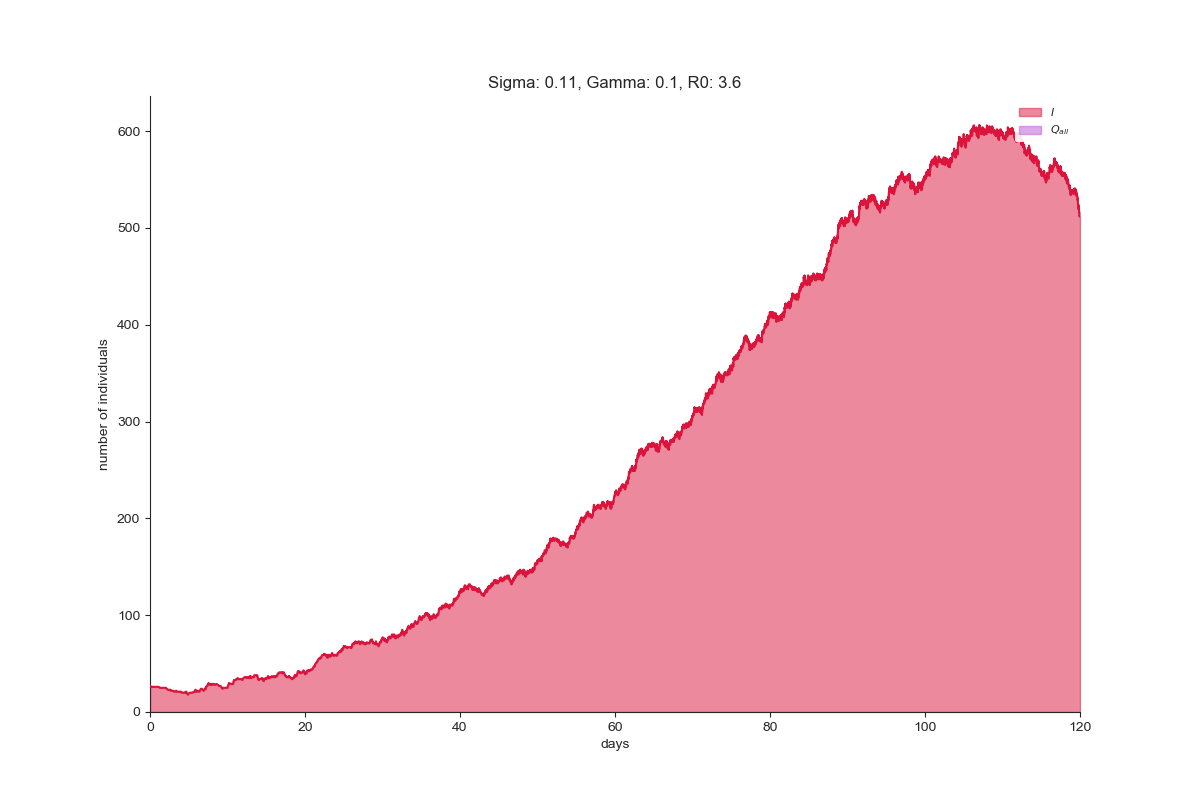
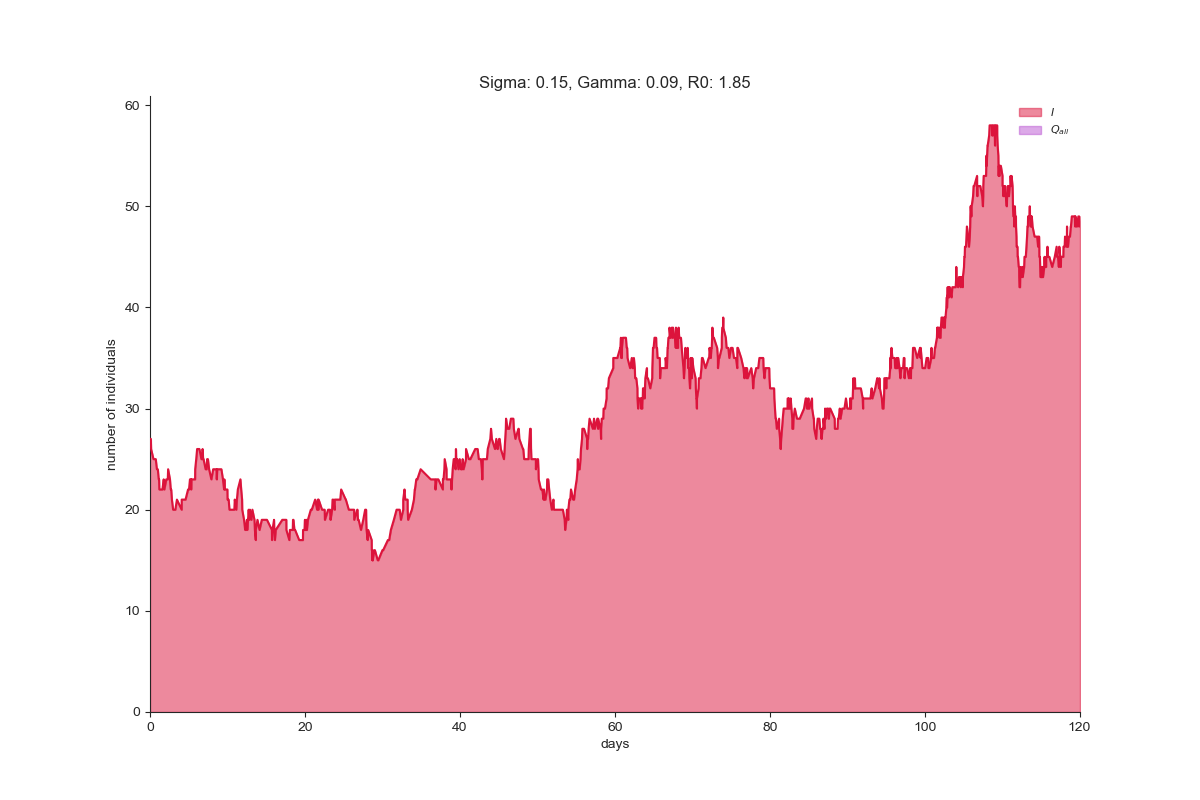
Corrected SEIRS simulation

diff --git a/SEIRS_simulation.py b/SEIRS_simulation.py
@@ -8,9 +8,9 @@ network_size = 5500000
 scaling = 0.001
 g = nx.erdos_renyi_graph(int(network_size * scaling), 0.001)
 
-sigma_values = np.linspace(0.07, 0.08, 2)   # 0.11
-gamma_values = np.linspace(0.11, 0.12, 2)    # 0.1
-r0_values = np.linspace(3.6, 3.7, 2)        # 3.6
+sigma_values = np.linspace(0.15, 0.25, 3)   # 0.15
+gamma_values = np.linspace(0.08, 0.1, 3)    # 0.09
+r0_values = np.linspace(1.75, 1.85, 3)        # 1.85
 
 iteration = 0
 for SIGMA in sigma_values:
